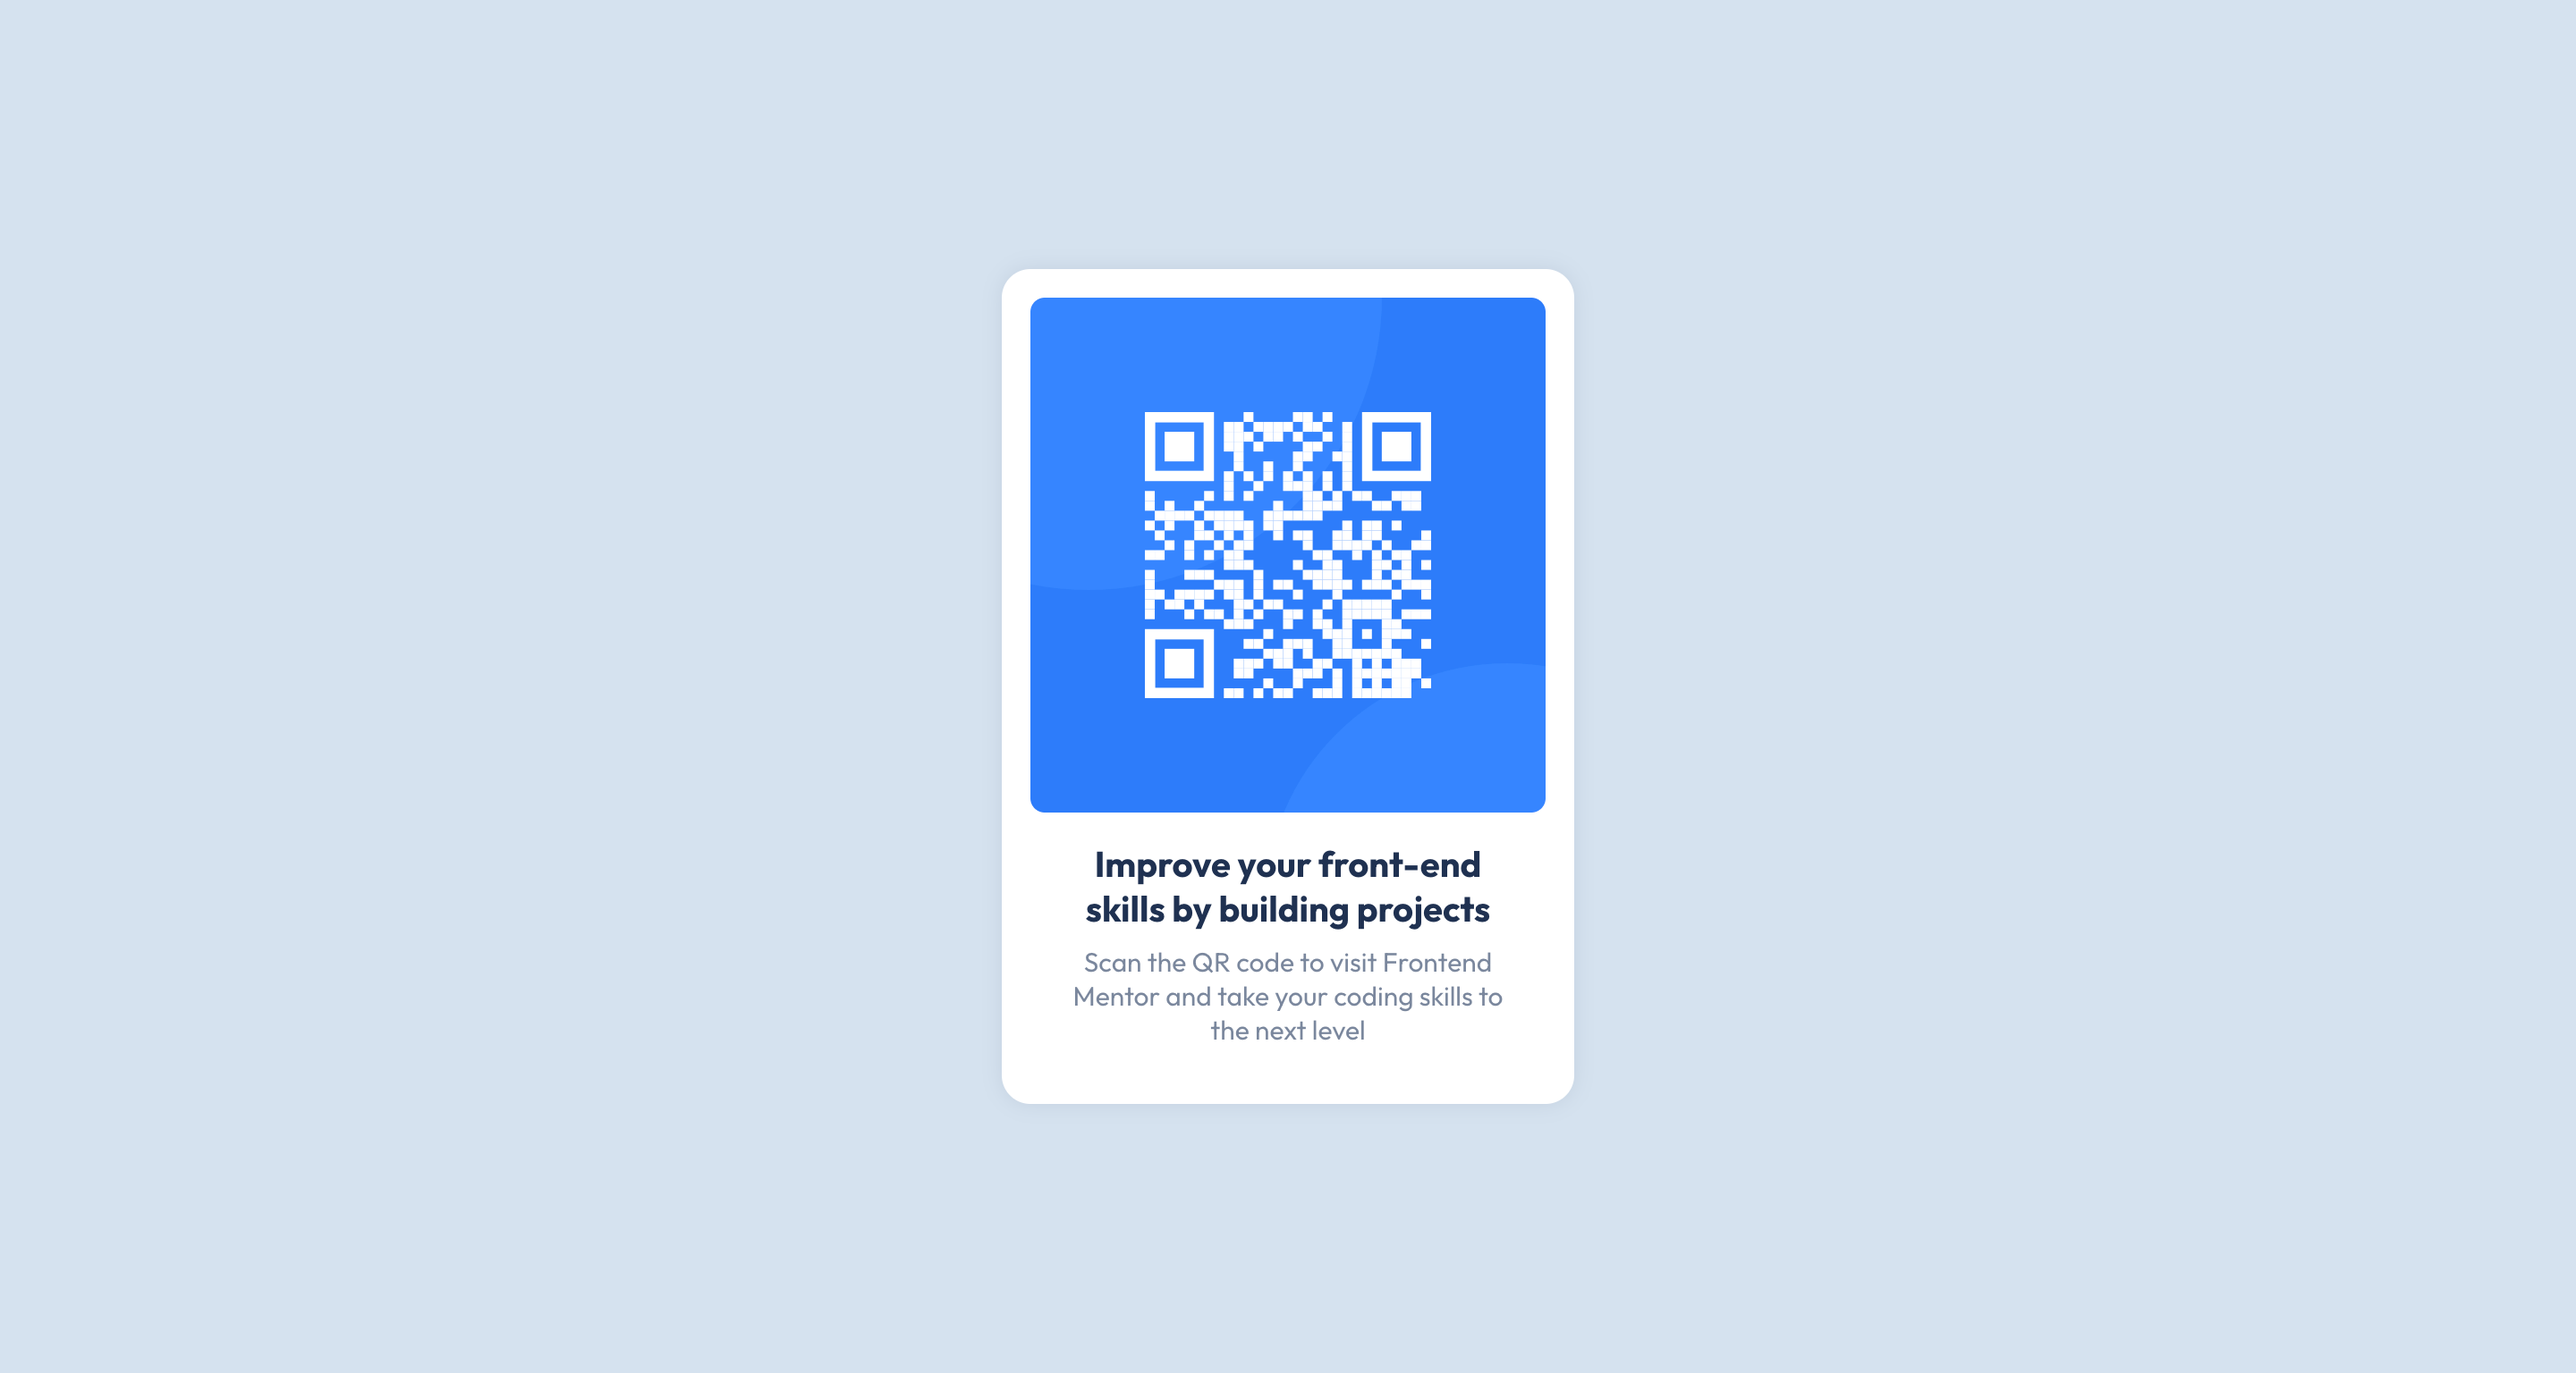
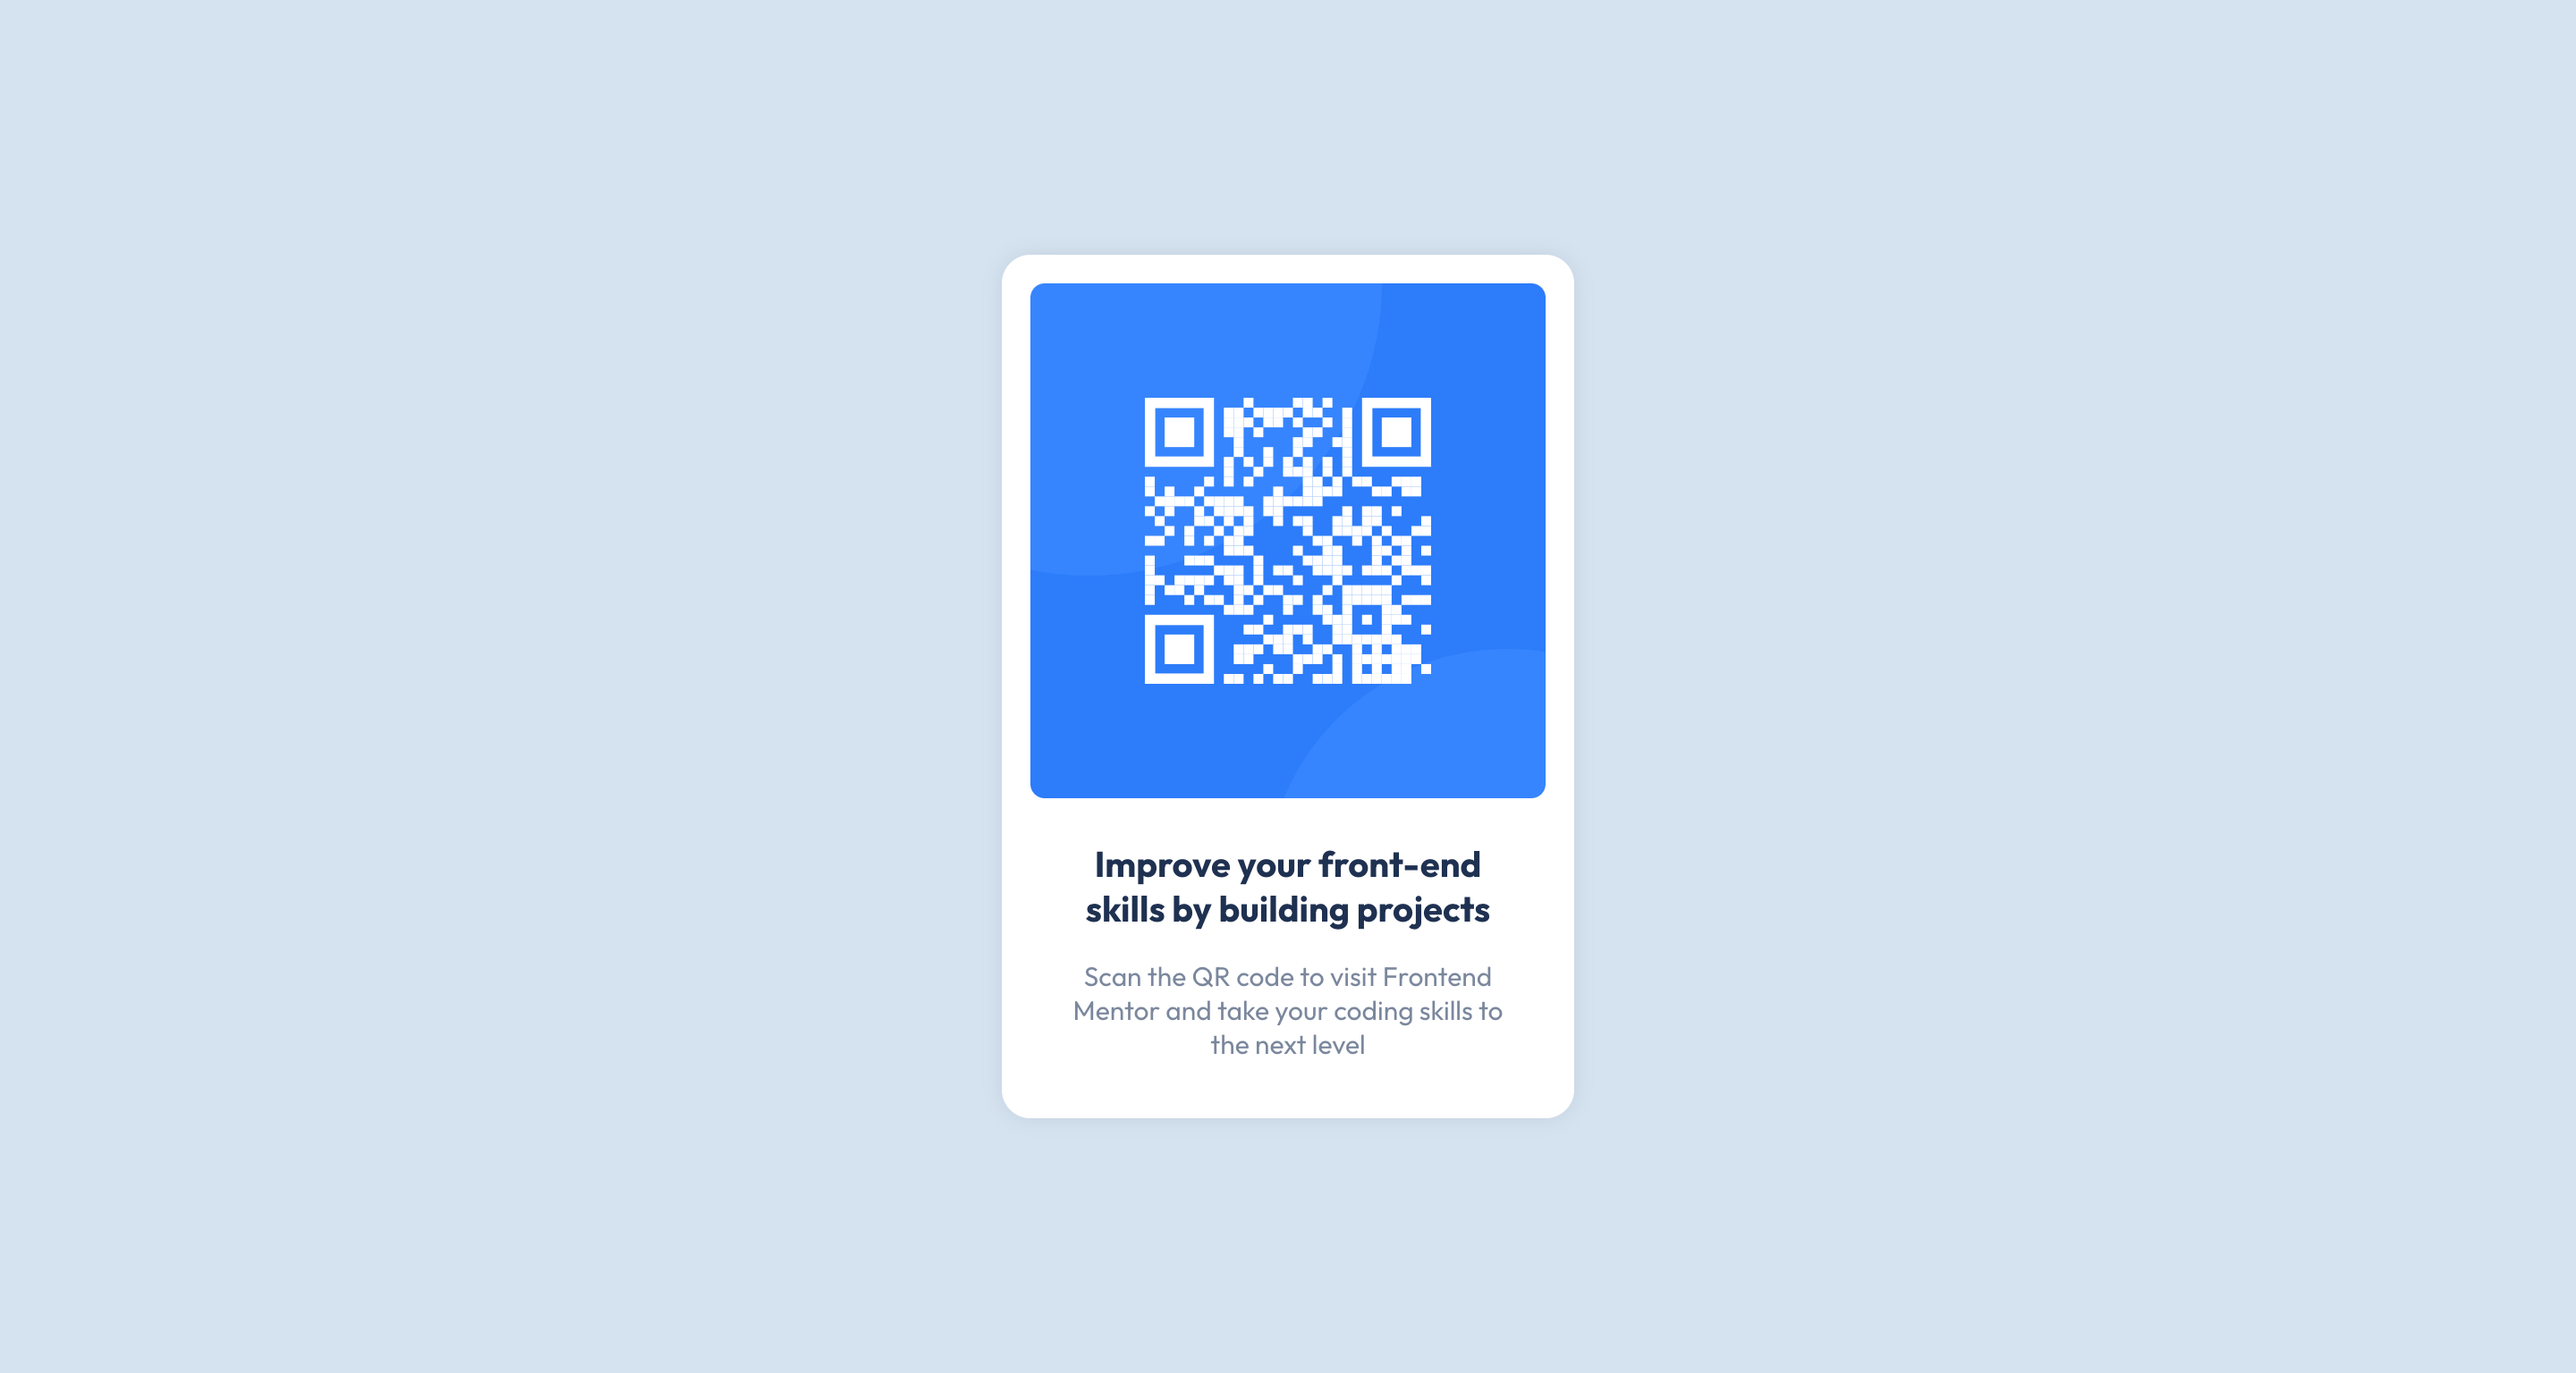
changed css and screenshot

diff --git a/css/style.css b/css/style.css
@@ -33,7 +33,7 @@ main .container {
 .qr-code-box .qr-code-text h1 {
   font-size: 20px;
   color: hsl(218, 44%, 22%);
-  margin: 1.6rem 0 0.8rem;
+  margin: 2.4rem 0 1.6rem;
 }
 .qr-code-box .qr-code-text p {
   font-size: 15px;

diff --git a/css/style.scss b/css/style.scss
@@ -42,7 +42,7 @@ main {
     h1 {
       font-size: 20px;
       color: $DarkBlue;
-      margin: 1.6rem 0 0.8rem;
+      margin: 2.4rem 0 1.6rem;
     }
 
     p {
